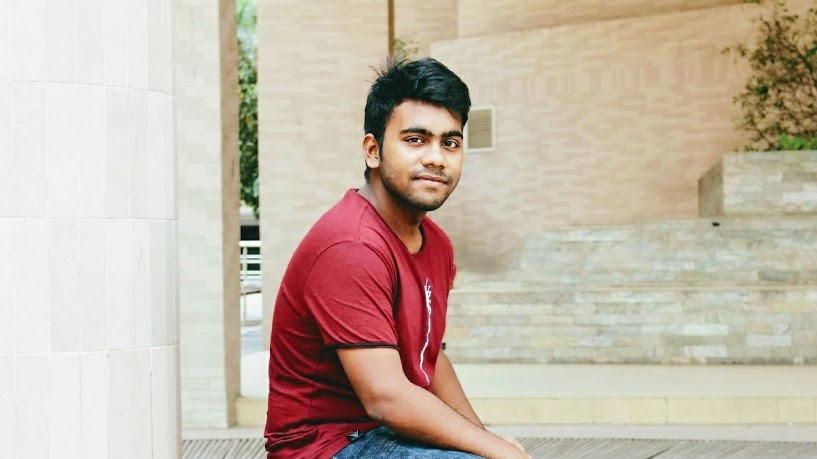
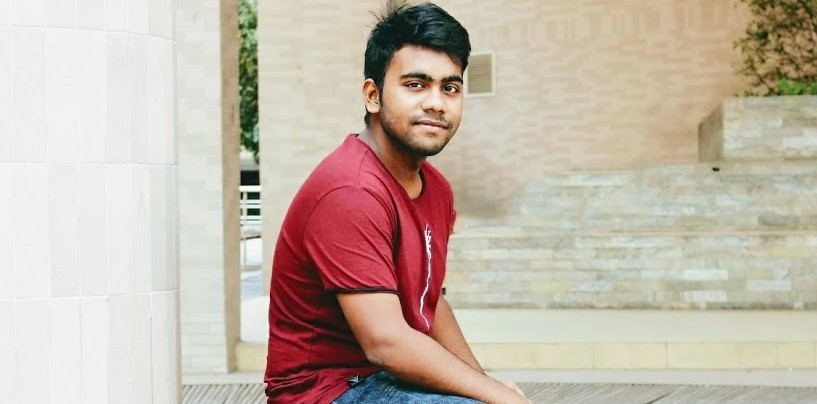
Update site

diff --git a/thePerson.html b/thePerson.html
@@ -82,7 +82,12 @@
 </head>
 
 <body>
-
+    <style type='text/css'>
+        img {
+            -webkit-mask-image: -webkit-gradient(linear, left top, left bottom, from(rgba(0, 0, 0, 1)), to(rgba(0, 0, 0, 0)));
+            mask-image: linear-gradient(to bottom, rgb(0, 0, 0), rgba(0, 0, 0, 0));
+        }
+    </style>
     <!--[if lte IE 9]>
             <p class="browserupgrade">You are using an <strong>outdated</strong> browser. Please <a href="https://browsehappy.com/">upgrade your browser</a> to improve your experience and security.</p>
         <![endif]-->
@@ -161,10 +166,10 @@
     </div>
     <!-- /bradcam_area  -->
 
-    <div class="about_wrap_area">
+    <div>
 
 
-
+        <br>
 
         <div class="about_area">
 
@@ -176,78 +181,56 @@
                     <div class="col-xl-12 col-lg-10">
 
                         <div style="text-align:left;" class="about_info">
+                            <img src="img/gallery/59.jpg" style="display: block;
+                            margin-left: auto;
+                            margin-right: auto; width: 100%;
+                            height: auto;" hspace="10" /><br><br>
 
 
-                            <h1><strong>Syed Md. Irfanul
-                                    Alam</strong>
-
+                            <h1 style="font-size: 1.8em;"><strong>About Syed Irfan</strong>
                             </h1>
-
-                            <h5 style="text-align:left;"><i>Also known as: Syed Irfan, Irfan</i>
-
-                            </h5>
-
-
-
 
                             <hr>
-                            <h4><strong>Syed Irfan</strong> was born in Chittagong, the port city of
-                                Bangladesh. After finishing his secondary schooling from Nasirabad Govt. High
-                                School, he
-                                enrolled in Bangladesh Navy College Chittagong for higher secondary school
-                                certification. He then moved to Dhaka and finished the <strong>Bachelor of Science
-                                    in
-                                    Computer Science
-                                    & Engineering</strong> from
-                                North South University.</h4>
-                            <h4>He was a Software
-                                Engineer at <strong><a href="https://codephilics.com.au/">Codephilics</a></strong>.
-                                During his BS, he was an official member of <strong><a
-                                        href="https://www.toastmasters.org/">Toastmasters
-                                        International</a></strong>, participated in regular programs
-                                arranged by the organization, and was
-                                certified as an active charter member of the organization. He was also a member of
-                                <strong>North South University ACM SIGAPP Student
-                                    Chapters</strong>
-                                and <strong>North South University Problem Solvers</strong>.
-                            </h4>
+                            <p>Syed Irfan was born in Chittagong, the port city of Bangladesh. Grew up in Chittagong, he
+                                started the kindergarten education at Saint Lawrence Academy in the year 2000. In the
+                                6th standard he got admitted into Central Public School & College and studied there till
+                                the 8th standard. Next he attended the admission test in Nasirabad Government High
+                                School and obtained 5th place amongst 721 candidates in 2009. After finishing his
+                                secondary schooling (2010-2012) from Nasirabad Government High School, he enrolled in
+                                Bangladesh Navy College Chittagong for higher secondary school certification
+                                (2012-2014). He then moved to Dhaka and finished the Bachelor of Science in Computer
+                                Science & Engineering (2015-2020) from North South University.
+                            <p>He was a Software Engineer at Codephilics, a software startup company of one of his
+                                friends. Being a part of a startup company he faced the struggle a company faces in the
+                                beginning and grew up through obstacles. At the time of pursuing his bachelor's degree
+                                he was an official member of Toastmasters International, participated in regular
+                                programs arranged by the organization, and was certified as an active charter member of
+                                the organization. He was also a member of North South University ACM SIGAPP Student
+                                Chapters and North South University Problem Solvers.
+                            </p>
                             <br>
+                            <h1 style="font-size: 1.8em"><strong>Career
+                                    Summary</strong></h1>
+                            <hr>
 
-                            <h1 style="font-family: 'Ubuntu', sans-serif;"><strong>Career Interest</strong></h1>
-
-                            <h4>Seeking a role in <strong>Machine Learning Engineer</strong>, <strong>Data
-                                    Scientist</strong>, <strong>Mobile App Developer</strong> & <strong>Web
-                                    Developer</strong> where the knowledge and
-                                analytical
-                                skills acquired by
-                                pursuing
-                                the Bachelor of Science in Computer Science & Engineering would be deployed. Looking
-                                for
-                                a
-                                progressive company
-                                where the skills are utilized in the maximum way possible.
-                            </h4>
-                            <h4>Skilled in <strong>Jupyter</strong>, <strong>Python</strong>,
-                                <strong>Object-Oriented
-                                    Programming</strong>,
-                                <strong>Android Studio</strong>,
-                                <strong>Java</strong>, <strong>Flutter</strong>, <strong>Bootstrap</strong>,
-                                <strong>JavaScript</strong>, <strong>MySQL</strong>, <strong>MS Excel</strong>,
-                                and <strong>Critical Thinking</strong>.
-                            </h4>
+                            <p>Self-motivated and passionate individual with a Bachelor Degree in
+                                Computer Science and Engineering, professional experience in developing mobile
+                                application, machine learning model, web scraper and software projects.
+                                Interested in the role of Data Scientist, Mobile Application Development and Machine
+                                Learning Engineer. Have the ability to analyze business models efficiently and make data
+                                driven decisions for better outcomes.
+                                Skilled in Python, Java, Object Oriented Programming, Flutter, MySQL etc.
+                            </p>
                             <br>
-                            <h1 style="font-family: 'Ubuntu', sans-serif;"><strong>Research Interest</strong>
+                            <h1 style="font-size: 1.8em"><strong>Research Interest</strong>
+
                             </h1>
-
-                            <h4>The primary research interest is to ease the problems of the developing societies
-                                and
-                                empower people for better lifestyle. The primary field of interest is
-                                <strong>Artificial
-                                    Intelligence (AI)</strong>. Within AI, his interest includes
-                                <strong>Machine Learning</strong>, <strong>Deep Learning</strong> &
-                                <strong>Artificial Neural Network</strong>.
-                            </h4>
-
+                            <hr>
+                            <p>The primary goal of research is to ease the problems of developing societies and empower
+                                people for better lifestyles. The primary field of interest is Artificial Intelligence
+                                (AI). Within AI, his interests include Machine Learning, Deep Learning & Artificial
+                                Neural Network.
+                            </p>
 
                         </div>
 
@@ -256,9 +239,9 @@
                     <div class="col-xl-12 col-lg-10">
 
                         <div style="text-align:left;" class="about_info"><br>
-                            <h1 style="font-family: 'Ubuntu', sans-serif;"><strong>Personal Information</strong>
+                            <h1 style="font-size: 1.8em"><strong>Personal Information</strong>
                             </h1>
-
+                            <hr>
 
 
                             <table id="customers">
@@ -283,10 +266,10 @@
                                     <td>Religion</td>
                                     <td>Islam</td>
                                 </tr>
-                                <tr>
+                                <!--    <tr>
                                     <td>Blood Group</td>
                                     <td> </td>
-                                </tr>
+                                </tr>-->
                                 <tr>
                                     <td>Date of Birth</td>
                                     <td>25 February</td>
@@ -336,7 +319,6 @@
                                     <td>N/A</td>
                                 </tr>
                             </table>
-
 
                         </div>
 
@@ -405,6 +387,7 @@
                 </span>
             </h1>
             <hr>-->
+
 
             <hr>
             <h4>Find me around the web:</h4>
